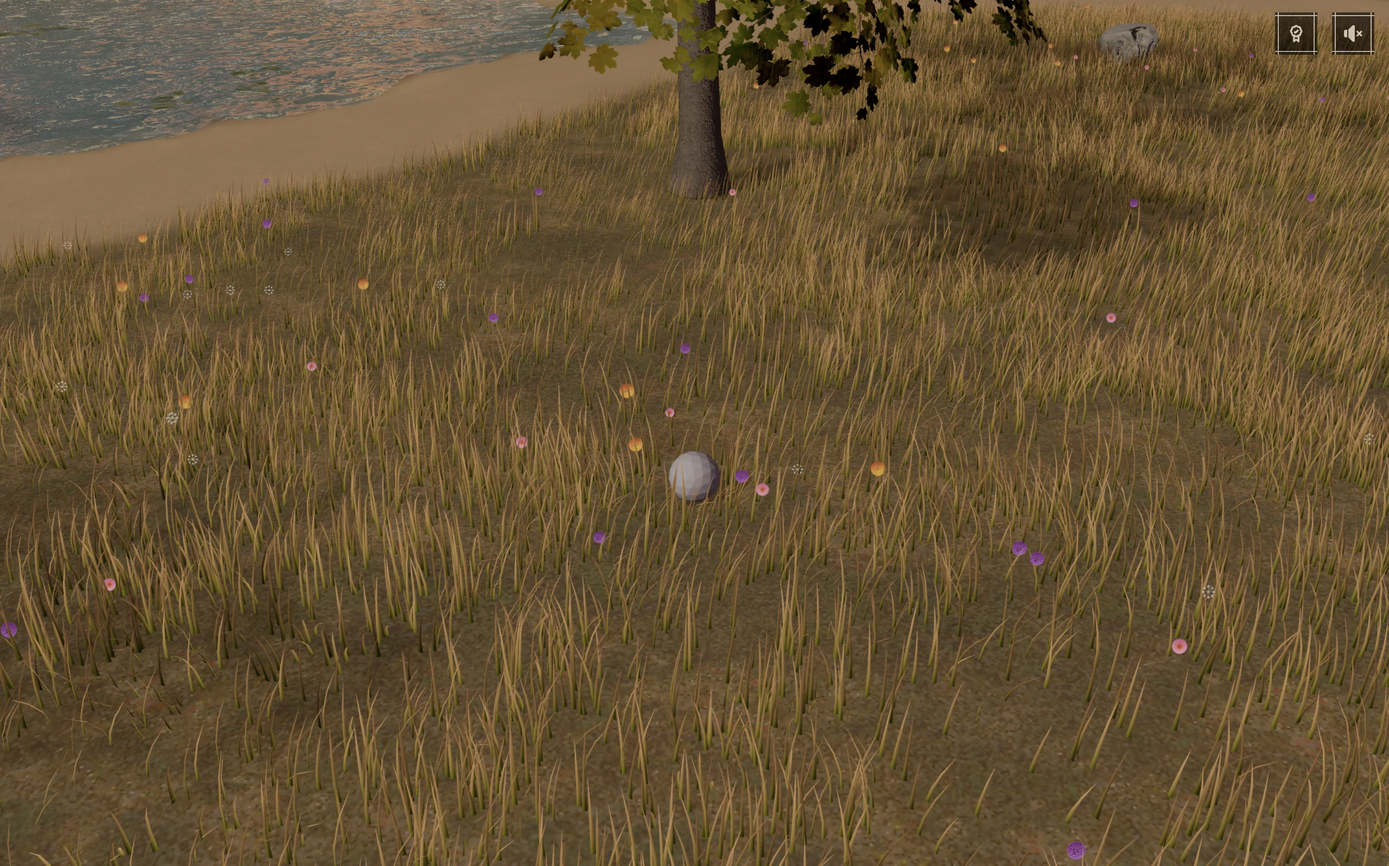
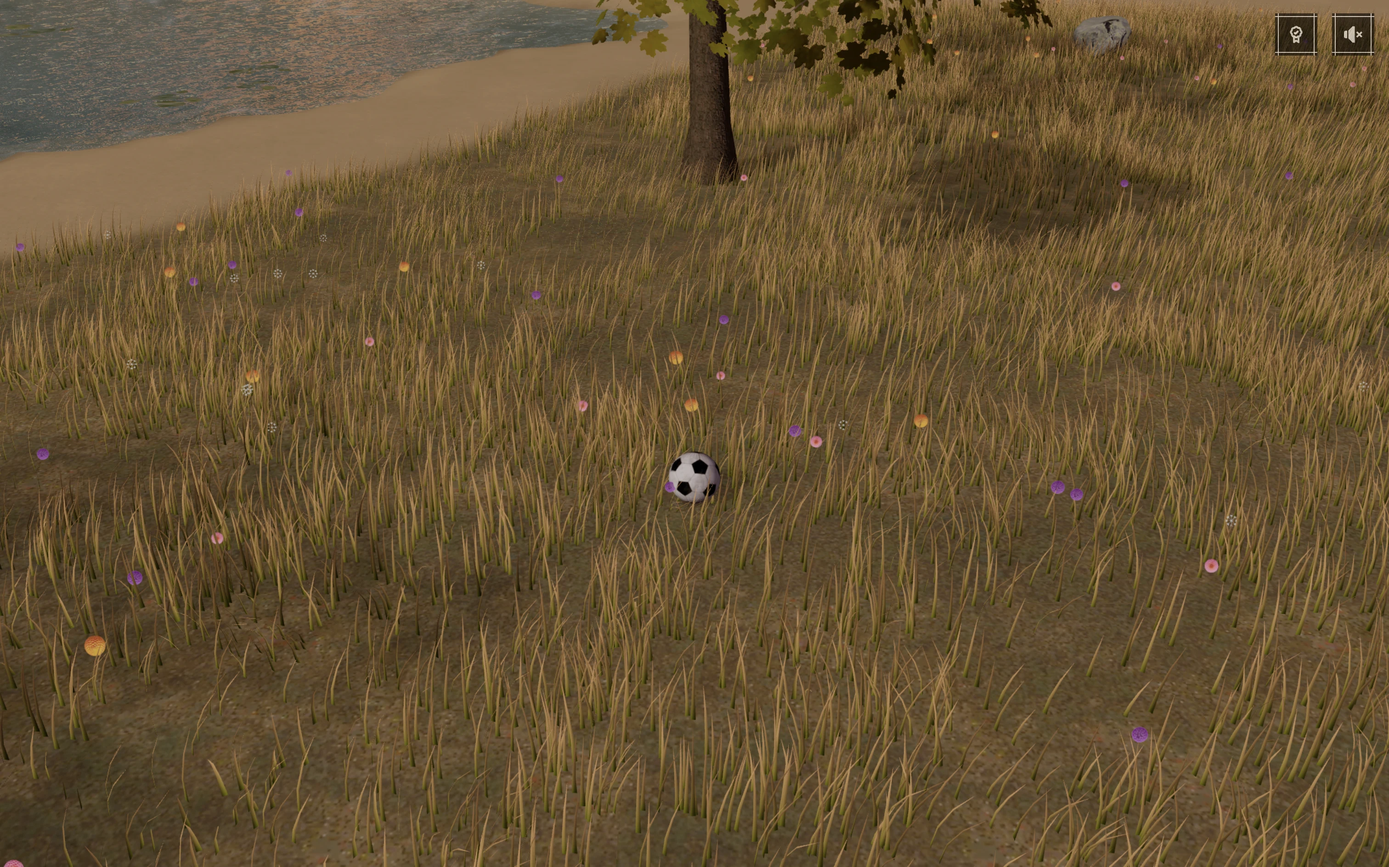
chore: fixes and adjustments

diff --git a/src/systems/AssetManager.ts b/src/systems/AssetManager.ts
@@ -183,13 +183,14 @@ class AssetManager {
     this.realmModel = res[0];
     // Environment
     this.envMapTexture = res[1];
+    this.envMapTexture.colorSpace = SRGBColorSpace;
     this.envMapTexture.generateMipmaps = false;
     // Noise
     this.noiseTexture = res[2];
     // Terain
     this.terrainTypeMap = res[3];
     this.terrainTypeMap.flipY = false;
-    this.grassDiffuse = res[4];
+    this.grassDiffuse = res[4]; // linear space on purpose
     this.grassNormal = res[5];
     this.sandNormal = res[6];
     this.waterNormal = res[7];
@@ -197,23 +198,22 @@ class AssetManager {
     this.terrainShadowAo.flipY = false;
 
     // Water lilies
-    this.waterLiliesTexture = res[9];
+    this.waterLiliesTexture = res[9]; // linear space on purpose
     this.waterLiliesTexture.flipY = false;
     this.waterLiliesAlphaTexture = res[10];
     this.waterLiliesAlphaTexture.flipY = false;
 
     // Flowers
-    this.flowerAtlas = res[11];
+    this.flowerAtlas = res[11]; // linear space on purpose
     this.flowerAtlas.flipY = false;
 
     // Rocks
-    this.stoneAtlas = res[12];
+    this.stoneAtlas = res[12]; // linear space on purpose, it also includes normals
     this.stoneAtlas.flipY = false;
 
     // Trees
-    this.canopyDiffuse = res[13];
+    this.canopyDiffuse = res[13]; // linear space on purpose
     this.canopyDiffuse.flipY = false;
-    this.canopyDiffuse.colorSpace = SRGBColorSpace;
     this.canopyNormal = res[14];
     this.canopyNormal.flipY = false;
     this.barkDiffuse = res[15];
@@ -223,17 +223,18 @@ class AssetManager {
     this.barkNormal.flipY = false;
 
     // God of War
-    this.axeDiffuse = res[17];
+    this.axeDiffuse = res[17]; // linear space on purpose
     this.axeDiffuse.flipY = false;
     this.axeEmissive = res[18];
     this.axeEmissive.flipY = false;
     this.trunkDiffuse = res[19];
     this.trunkDiffuse.flipY = false;
+    this.trunkDiffuse.colorSpace = SRGBColorSpace;
     this.trunkNormal = res[20];
     this.trunkNormal.flipY = false;
 
-    // One Piece (on purpose linear space although srgb)
-    this.onePieceAtlas = res[21];
+    // One Piece
+    this.onePieceAtlas = res[21]; // linear space on purpose
     this.onePieceAtlas.flipY = false;
 
     // Naruto

diff --git a/index.html b/index.html
@@ -277,7 +277,30 @@
           </p>
         </div>
 
+        <div class="asset">
+          <h2>⚽ Football ball (player skin) <span>[3d model]</span></h2>
+          <p>
+            This work is based on
+            <a
+              target="_blank"
+              href="https://sketchfab.com/3d-models/football-ball-5660a4969d7e4b6f94038ea2ad3cd722"
+              >Football ball</a
+            >
+            by
+            <a target="_blank" href="https://sketchfab.com/OlegBochkarevRU"
+              >MechanicRU</a
+            >
+            licensed under
+            <a
+              target="_blank"
+              href="http://creativecommons.org/licenses/by/4.0/"
+              >CC-BY-4.0</a
+            >
+          </p>
+        </div>
+
         <hr />
+        <!-- audio below -->
 
         <div class="asset">
           <h2>🦜 Background nature <span>[sound]</span></h2>
@@ -358,6 +381,7 @@
         </div>
 
         <hr />
+        <!-- honorable mentions below -->
 
         <div class="asset">
           <h2>👤 Bruno Simon <span>[Honorable mention]</span></h2>

diff --git a/src/entities/Water.ts b/src/entities/Water.ts
@@ -63,17 +63,17 @@ export default class Water {
 class WaterMaterial extends MeshBasicNodeMaterial {
   private playerDir = new Vector2(0, 0);
 
-  private uSpeed = uniform(0.0025);
-  private uScale1 = uniform(0.25);
-  private uScale2 = uniform(5);
-  private uWaveFrequency = uniform(2);
-  private uWaveAmplitude = uniform(0.1);
+  private uSpeed = uniform(0.0075);
+  private uScale1 = uniform(1);
+  private uScale2 = uniform(4);
+  private uWaveFrequency = uniform(0.25);
+  private uWaveAmplitude = uniform(0.075);
 
-  private uFresnelScale = uniform(0.4);
+  private uFresnelScale = uniform(0.325);
   private uMinDist = uniform(15);
-  private uMaxDist = uniform(55);
+  private uMaxDist = uniform(35);
 
-  private uBaseColor = uniform(new Color().setRGB(0.06, 0.11, 0.1));
+  private uBaseColor = uniform(new Color().setRGB(0.05, 0.09, 0.08));
 
   uPlayerPosition = uniform(new Vector3(0, 0, 0));
   uPlayerDirection = uniform(new Vector2(0, 0));

diff --git a/src/entities/CoolStuff/Naruto.ts b/src/entities/CoolStuff/Naruto.ts
@@ -15,9 +15,10 @@ class KunaiMaterial extends MeshStandardNodeMaterial {
     const diffuse = texture(assetManager.kunaiDiffuse, uv());
     this.colorNode = diffuse.mul(5);
 
+    // Metalness / Roughness
     const mr = texture(assetManager.kunaiMR, uv());
-    this.metalnessNode = mr.g;
-    this.roughnessNode = mr.b;
+    this.metalnessNode = mr.b.mul(0.75);
+    this.roughnessNode = mr.g;
   }
 }
 
@@ -52,6 +53,7 @@ export default class Naruto {
       const colliderDesc = ColliderDesc.cuboid(x, y, z).setRestitution(0.75);
       physicsManager.world.createCollider(colliderDesc, rigidBody);
     });
+
     sceneManager.scene.add(instances);
   }
 }

diff --git a/src/systems/RendererManager.ts b/src/systems/RendererManager.ts
@@ -6,6 +6,7 @@ import { debugManager } from "./DebugManager";
 import { sceneManager } from "./SceneManager";
 
 const ENABLE_MONITORING = false;
+const ENABLE_DEBUGGING = false;
 
 class RendererManager {
   renderer: WebGPURenderer;
@@ -15,7 +16,8 @@ class RendererManager {
   private readonly IS_POSTPROCESSING_ENABLED = true;
   private readonly IS_MONITORING_ENABLED =
     import.meta.env.DEV && ENABLE_MONITORING;
-  private readonly IS_DEBUGGING_ENABLED = import.meta.env.DEV;
+  private readonly IS_DEBUGGING_ENABLED =
+    import.meta.env.DEV && ENABLE_DEBUGGING;
 
   constructor() {
     const canvas = document.createElement("canvas");

diff --git a/src/entities/CoolStuff/GodOfWar.ts b/src/entities/CoolStuff/GodOfWar.ts
@@ -5,13 +5,15 @@ import { MeshLambertNodeMaterial } from "three/webgpu";
 import { ColliderDesc, RigidBodyDesc } from "@dimforge/rapier3d";
 import { physicsManager } from "../../systems/PhysicsManager";
 import { RevoColliderType } from "../../types";
+import { texture, uv } from "three/tsl";
 
 class TrunkMaterial extends MeshLambertNodeMaterial {
   constructor() {
     super();
     this.precision = "lowp";
     this.flatShading = false;
-    this.map = assetManager.trunkDiffuse;
+    const diffuse = texture(assetManager.trunkDiffuse, uv());
+    this.colorNode = diffuse.mul(1.75);
     this.normalMap = assetManager.trunkNormal;
   }
 }

diff --git a/src/entities/Vegetation/Grass.ts b/src/entities/Vegetation/Grass.ts
@@ -225,7 +225,9 @@ class GrassMaterial extends MeshBasicNodeMaterial {
 
   private computeAlpha = Fn(([worldPos = vec3(0)]) => {
     const alphaUv = tslUtils.computeMapUvByPosition(worldPos.xz);
-    return texture(assetManager.terrainTypeMap, alphaUv).g;
+    const alpha = texture(assetManager.terrainTypeMap, alphaUv).g;
+    const threshold = step(0.25, alpha);
+    return alpha.mul(threshold);
   });
 
   private computeTrailScale = Fn(

diff --git a/src/entities/Player.ts b/src/entities/Player.ts
@@ -151,7 +151,7 @@ export default class Player {
 
   private createColliderDesc() {
     return ColliderDesc.ball(config.RADIUS)
-      .setRestitution(0.25)
+      .setRestitution(0.6)
       .setFriction(1)
       .setMass(config.MASS)
       .setActiveEvents(ActiveEvents.COLLISION_EVENTS);

diff --git a/src/style.css b/src/style.css
@@ -199,7 +199,7 @@ Compass
 **/
 .compass-container {
   --opacity: 0;
-  --size: max(10vh, 7.5vw);
+  --size: min(10vh, 7.5vw);
   --padding: 1rem;
   position: fixed;
   bottom: var(--padding);
